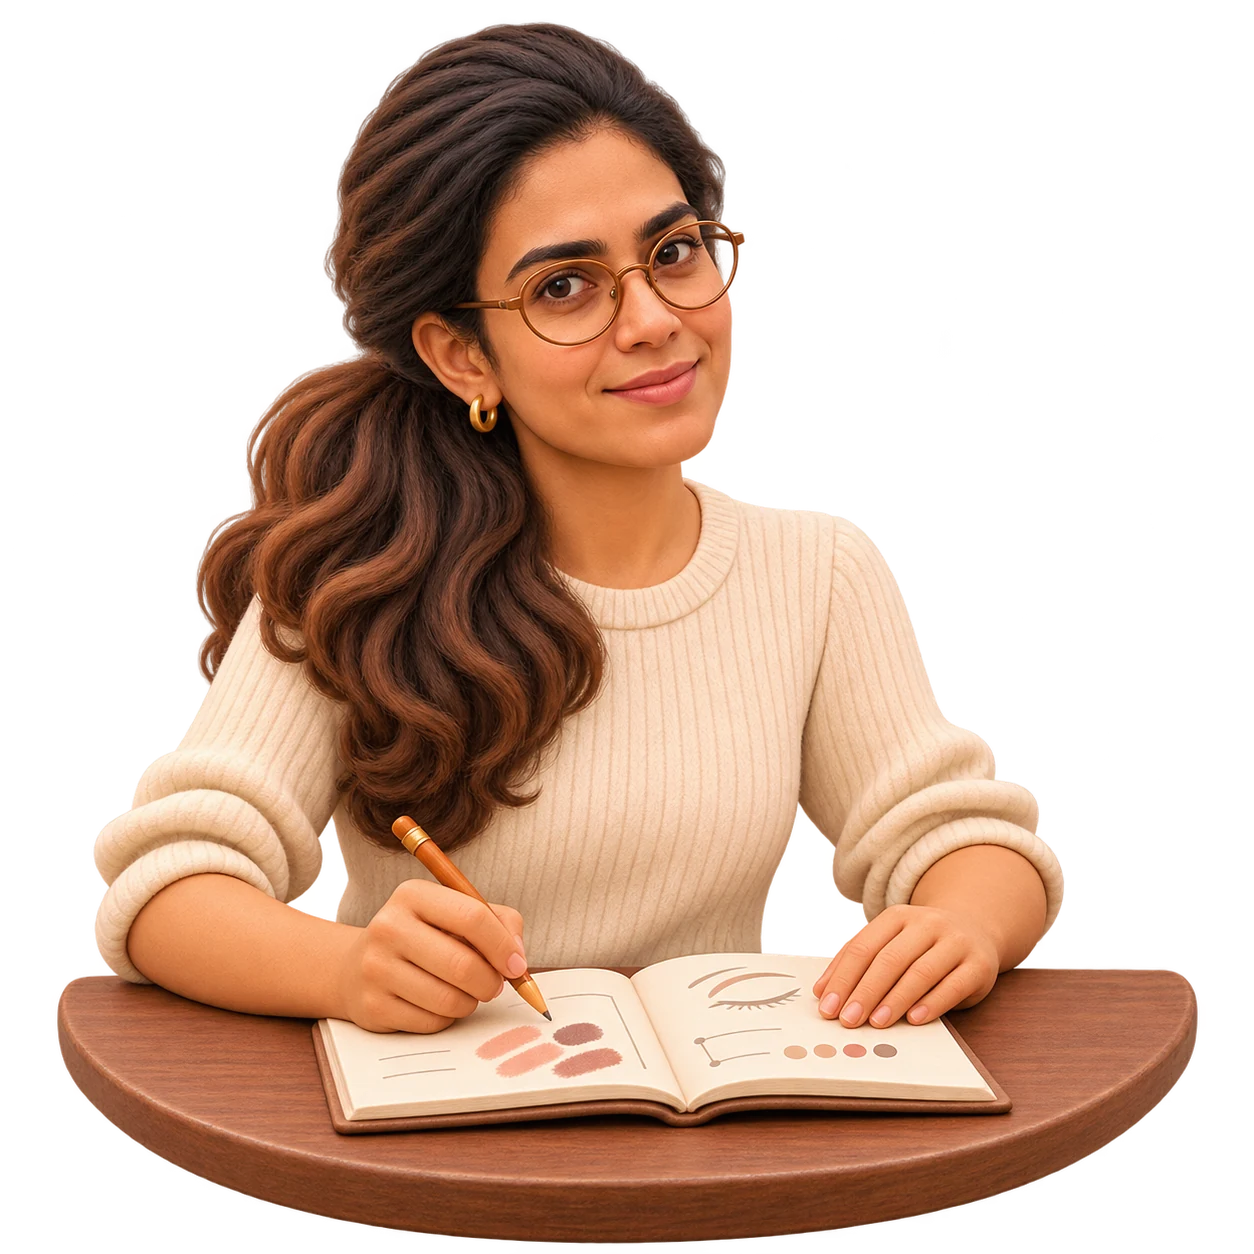
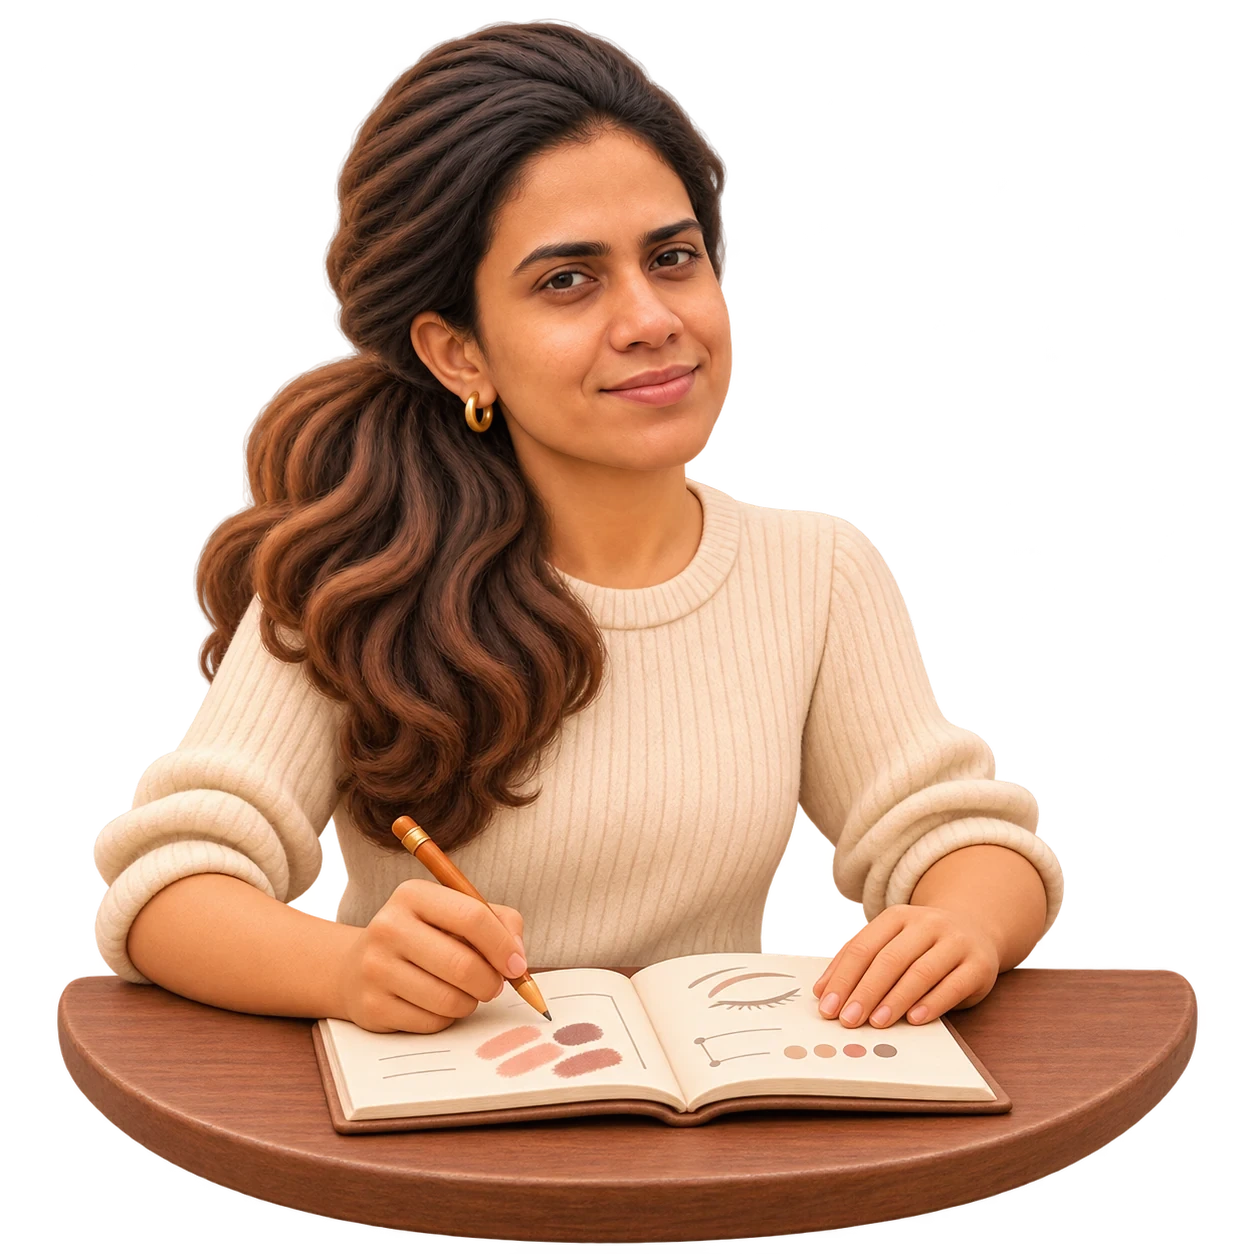
Prepare the verified brush and Academy mentor changes for approval

diff --git a/assets/elor-bridal-painter.js b/assets/elor-bridal-painter.js
@@ -1,25 +1,234 @@
-import { loopCharacterMotionInView } from './elor-character-motion.js?v=character-loops';
+const artwork = new URL('./elor-bridal-painter.webp?v=photo-face', import.meta.url);
+const imageSize = 384;
+const wrist = { x: 192, y: 125 };
+const loopDuration = 3700;
+const playing = 'data-painter-playing';
+
+function clamp(value) {
+  return Math.max(0, Math.min(1, value));
+}
 
 function smooth(from, to, value) {
-  const t = Math.max(0, Math.min(1, (value - from) / (to - from)));
+  const t = clamp((value - from) / (to - from));
   return t * t * (3 - 2 * t);
 }
 
-function strokes(progress, horizontal, vertical) {
-  // Both strokes return to the neutral pose before the pause between passes.
-  const gesture = Math.min(1, progress / .73);
-  const brow = smooth(.08, .28, gesture) - smooth(.38, .54, gesture);
-  const cheek = smooth(.46, .68, gesture) - smooth(.76, 1, gesture);
-  return [-horizontal * (brow + .65 * cheek), vertical * (brow - 1.1 * cheek)];
+function wristAngle(progress) {
+  const firstStroke = smooth(.07, .24, progress) - smooth(.29, .43, progress);
+  const secondStroke = smooth(.38, .54, progress) - smooth(.60, .74, progress);
+  return .12 * firstStroke - .088 * secondStroke;
 }
 
-loopCharacterMotionInView(document.querySelector('.bridal-painter'), {
-  imageUrl: new URL('./elor-bridal-painter.webp?v=photo-face', import.meta.url).href,
-  attribute: 'data-painter-playing',
-  threshold: .55,
-  duration: 3700,
-  region: { x: 189, y: 143, radiusX: 26, radiusY: 46 },
-  region2: { x: 211, y: 105, radiusX: 32, radiusY: 18 },
-  shift: progress => strokes(progress, 8, 13),
-  shift2: progress => strokes(progress, 6, 15),
-});
+function drawingSurface() {
+  const canvas = document.createElement('canvas');
+  canvas.width = canvas.height = imageSize;
+  return canvas.getContext('2d');
+}
+
+function pixelAt(x, y) {
+  return (y * imageSize + x) * 4;
+}
+
+function sample(source, x, y, channel) {
+  const left = Math.floor(x);
+  const top = Math.floor(y);
+  const u = x - left;
+  const v = y - top;
+  const read = (dx, dy) => source[pixelAt(left + dx, top + dy) + channel];
+  return (read(0, 0) * (1 - u) + read(1, 0) * u) * (1 - v)
+    + (read(0, 1) * (1 - u) + read(1, 1) * u) * v;
+}
+
+// The source shaft crosses the easel's blank left margin. Recover the narrow
+// strip beneath it along the rim's slope, then extend the exposed source shaft
+// across that strip so it contains brush pixels only when the wrist pivots.
+function separateShaft(source, stationary, moving, x, y) {
+  const pixel = pixelAt(x, y);
+  const fraction = (y - 98) / 8;
+  const fade = Math.min(1, (238 - x) / 3, y - 98, 106 - y);
+  for (let channel = 0; channel < 4; channel++) {
+    const above = sample(source, x + .2 * (y - 98), 98, channel);
+    const below = sample(source, x + .2 * (y - 106), 106, channel);
+    const repaired = above * (1 - fraction) + below * fraction;
+    stationary[pixel + channel] = source[pixel + channel] * (1 - fade) + repaired * fade;
+  }
+
+  const thickness = 1 - .62 * smooth(220, 238, x);
+  const axis = 103 - .08 * (x - 216);
+  const shaftRow = 103 + (y - axis) / thickness;
+  if (shaftRow < 99 || shaftRow > 107) return;
+  const amber = smooth(220, 227, x);
+  const gold = [45, 31, 6];
+  for (let channel = 0; channel < 3; channel++) {
+    moving[pixel + channel] = sample(source, 216, shaftRow, channel) + amber * gold[channel];
+  }
+  moving[pixel + 3] = sample(source, 216, shaftRow, 3) * (1 - smooth(235, 238, x));
+}
+
+async function prepareArtwork() {
+  const image = new Image();
+  image.src = artwork;
+  await image.decode();
+
+  const plate = drawingSurface();
+  const hand = drawingSurface();
+  if (!plate || !hand) throw new Error('Painter textures unavailable');
+  plate.drawImage(image, 0, 0, imageSize, imageSize);
+  const background = plate.getImageData(0, 0, imageSize, imageSize);
+  const original = background.data.slice();
+  const foreground = hand.createImageData(imageSize, imageSize);
+
+  for (let y = 90; y < 135; y++) {
+    for (let x = 167; x < 238; x++) {
+      if (x >= 217) {
+        if (y >= 99 && y <= 106) separateShaft(original, background.data, foreground.data, x, y);
+        continue;
+      }
+      if (x < 180 && (y < 99 || y > 111)) continue;
+      if (x >= 214 && (y < 99 || y > 112)) continue;
+
+      // The overlap is confined to the wrist joint. The forearm remains part
+      // of the stationary plate while the hand and its brush move together.
+      const joint = wrist.y + .28 * (x - wrist.x);
+      const opacity = 1 - smooth(joint + 1, joint + 6, y);
+      if (!opacity) continue;
+      const pixel = pixelAt(x, y);
+      foreground.data.set(original.subarray(pixel, pixel + 4), pixel);
+      foreground.data[pixel + 3] *= opacity;
+      if (y < joint - 1) background.data[pixel + 3] = 0;
+    }
+  }
+
+  plate.putImageData(background, 0, 0);
+  hand.putImageData(foreground, 0, 0);
+  return { plate: plate.canvas, hand: hand.canvas };
+}
+
+function createPainter(THREE, textures, canvas) {
+  const renderer = new THREE.WebGLRenderer({
+    canvas, alpha: true, antialias: false, premultipliedAlpha: false, powerPreference: 'low-power',
+  });
+  renderer.setSize(imageSize, imageSize, false);
+  renderer.setClearColor(0, 0);
+
+  const scene = new THREE.Scene();
+  const camera = new THREE.OrthographicCamera(0, imageSize, imageSize, 0, .1, 10);
+  camera.position.z = 2;
+  const geometry = new THREE.PlaneGeometry(imageSize, imageSize);
+  const materials = [textures.plate, textures.hand].map(surface => {
+    const map = new THREE.CanvasTexture(surface);
+    map.colorSpace = THREE.SRGBColorSpace;
+    map.generateMipmaps = false;
+    map.minFilter = THREE.LinearFilter;
+    return new THREE.MeshBasicMaterial({
+      map, transparent: true, depthTest: false, depthWrite: false, toneMapped: false,
+    });
+  });
+  const [plate, hand] = materials.map(material => new THREE.Mesh(geometry, material));
+  const pivot = new THREE.Group();
+  const center = imageSize / 2;
+  plate.position.set(center, center, 0);
+  pivot.position.set(wrist.x, imageSize - wrist.y, 0);
+  hand.position.set(center - wrist.x, wrist.y - center, 0);
+  hand.renderOrder = 1;
+  pivot.add(hand);
+  scene.add(plate, pivot);
+
+  return {
+    draw(progress) {
+      pivot.rotation.z = wristAngle(progress);
+      renderer.render(scene, camera);
+    },
+    dispose() {
+      for (const material of materials) {
+        material.map.dispose();
+        material.dispose();
+      }
+      geometry.dispose();
+      renderer.dispose();
+      renderer.forceContextLoss();
+    },
+  };
+}
+
+function observePainter(element) {
+  if (!element || !('IntersectionObserver' in window) || !('WebGL2RenderingContext' in window)) return;
+
+  const reduced = matchMedia('(prefers-reduced-motion: reduce)');
+  const curtain = document.querySelector('.opening-veil')?.getAnimations?.()
+    .find(animation => animation.animationName === 'veil-exit');
+  let ready = !curtain;
+  let visible = false;
+  let unavailable = false;
+  let assets;
+  let session;
+
+  function stop() {
+    if (!session) return;
+    const { painter, canvas, frame } = session;
+    session = undefined;
+    cancelAnimationFrame(frame);
+    element.removeAttribute(playing);
+    canvas.remove();
+    painter?.dispose();
+  }
+
+  async function start() {
+    const canvas = document.createElement('canvas');
+    const current = { canvas, frame: 0, painter: undefined };
+    session = current;
+
+    try {
+      assets ??= Promise.all([import('../vendor/three.module.js'), prepareArtwork()]);
+      const [THREE, textures] = await assets;
+      if (session !== current) return;
+
+      const painter = createPainter(THREE, textures, canvas);
+      current.painter = painter;
+      painter.draw(0);
+      element.append(canvas);
+      element.setAttribute(playing, '');
+      canvas.addEventListener('webglcontextlost', () => {
+        if (session !== current) return;
+        unavailable = true;
+        stop();
+      }, { once: true });
+
+      const began = performance.now();
+      function advance(now) {
+        try {
+          painter.draw(((now - began) % loopDuration) / loopDuration);
+          current.frame = requestAnimationFrame(advance);
+        } catch {
+          unavailable = true;
+          stop();
+        }
+      }
+      current.frame = requestAnimationFrame(advance);
+    } catch {
+      if (session !== current) return;
+      unavailable = true;
+      stop();
+    }
+  }
+
+  function sync() {
+    if (!ready || !visible || document.hidden || reduced.matches || unavailable) stop();
+    else if (!session) start();
+  }
+
+  const threshold = .55;
+  const observer = new IntersectionObserver(([entry]) => {
+    visible = entry.intersectionRatio >= threshold;
+    sync();
+  }, { threshold, rootMargin: '-68px 0px 0px' });
+  document.addEventListener('visibilitychange', sync);
+  reduced.addEventListener('change', sync);
+  observer.observe(element);
+  if (curtain) curtain.finished.catch(() => {}).then(() => {
+    ready = true;
+    sync();
+  });
+}
+
+observePainter(document.querySelector('.bridal-painter'));

diff --git a/index.html b/index.html
@@ -156,7 +156,7 @@
   <link rel="stylesheet" href="assets/elor-invitation-guide.css?v=owner-left">
   <link rel="stylesheet" href="assets/elor-bridal-painter.css?v=photo-face">
   <link rel="stylesheet" href="assets/elor-academy-guide.css">
-  <link rel="stylesheet" href="assets/elor-academy-mentor.css">
+  <link rel="stylesheet" href="assets/elor-academy-mentor.css?v=owner-likeness">
   <link rel="stylesheet" href="assets/elor-site-sound.css">
   <noscript><style>.destination-panel .reveal, #unveiling .reveal { opacity:1; transform:none; }</style></noscript>
 </head>
@@ -520,8 +520,8 @@
   <script type="module" src="assets/elor-instagram-guide.js?v=character-loops"></script>
   <script type="module" src="assets/elor-arrival-guide.js?v=arrival-likeness"></script>
   <script type="module" src="assets/elor-invitation-guide.js?v=photo-face"></script>
-  <script type="module" src="assets/elor-bridal-painter.js?v=photo-face"></script>
+  <script type="module" src="assets/elor-bridal-painter.js?v=rigid-brush"></script>
   <script type="module" src="assets/elor-academy-guide.js?v=character-loops"></script>
-  <script type="module" src="assets/elor-academy-mentor.js"></script>
+  <script type="module" src="assets/elor-academy-mentor.js?v=owner-likeness"></script>
 </body>
 </html>

diff --git a/assets/elor-academy-mentor.css b/assets/elor-academy-mentor.css
@@ -19,7 +19,7 @@
   display: block;
   inline-size: clamp(95px, 10.6vw, 155px);
   aspect-ratio: 1;
-  background: url("elor-academy-mentor.webp") center / contain no-repeat;
+  background: url("elor-academy-mentor.webp?v=owner-likeness") center / contain no-repeat;
   filter: drop-shadow(0 4px 10px #111b);
   pointer-events: none;
 }

diff --git a/assets/elor-academy-mentor.js b/assets/elor-academy-mentor.js
@@ -20,7 +20,7 @@ if (mentor) {
   }
 
   loopCharacterMotionInView(mentor, {
-    imageUrl: new URL("./elor-academy-mentor.webp", import.meta.url),
+    imageUrl: new URL("./elor-academy-mentor.webp?v=owner-likeness", import.meta.url),
     attribute: "data-academy-mentor-gl",
     sourceArea,
     threshold: .7,
